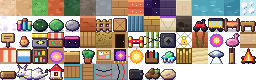
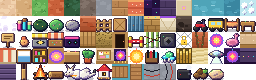
chakrageddon: publish Chakra-geddon 1.0.45 (3c3fefa)

Changed region(s): [[0.0, 0.8, 0.875, 1.0], [0.875, 0.6, 1.0, 0.8]]

diff --git a/static/chakrageddon/sw.js b/static/chakrageddon/sw.js
@@ -1,8 +1,8 @@
 // Generated by tools/build-sw.mjs - do not edit by hand.
 // Offline cache for the whole game. A new version installs beside the old one and takes over on the next launch.
-const VERSION = '174539335254';
+const VERSION = 'c311c6c2019e';
 const CACHE = 'chakrageddon-' + VERSION;
-const FILES = ["./","assets/export/atlas.json","assets/export/char_baba.png","assets/export/char_banyan.png","assets/export/char_baron.png","assets/export/char_boris.png","assets/export/char_captain.png","assets/export/char_chad.png","assets/export/char_chaimama.png","assets/export/char_chef.png","assets/export/char_council_beads.png","assets/export/char_council_elder.png","assets/export/char_council_eye.png","assets/export/char_dealer.png","assets/export/char_dj.png","assets/export/char_firespinner.png","assets/export/char_guard.png","assets/export/char_guru.png","assets/export/char_hana.png","assets/export/char_hippie.png","assets/export/char_influencer.png","assets/export/char_juggler.png","assets/export/char_kalyani.png","assets/export/char_lakshmi.png","assets/export/char_local.png","assets/export/char_mantequilla.png","assets/export/char_player.png","assets/export/char_player_crab.png","assets/export/char_player_glow.png","assets/export/char_player_kurta.png","assets/export/char_player_poncho.png","assets/export/char_player_sequins.png","assets/export/char_player_sombrero.png","assets/export/char_player_tiedye.png","assets/export/char_promoter.png","assets/export/char_raver.png","assets/export/char_sergeant.png","assets/export/char_shaman.png","assets/export/char_tourist.png","assets/export/char_vendor.png","assets/export/char_wook.png","assets/export/char_yogi.png","assets/export/icon.png","assets/export/mon_amphetadragon.png","assets/export/mon_bassilisk.png","assets/export/mon_blottertot.png","assets/export/mon_bongo_bishop.png","assets/export/mon_bribe_asaurus.png","assets/export/mon_charagolem.png","assets/export/mon_chillem.png","assets/export/mon_crabcake.png","assets/export/mon_dengoth.png","assets/export/mon_djembe_monk.png","assets/export/mon_duvetghast.png","assets/export/mon_fractoad.png","assets/export/mon_ganjapod.png","assets/export/mon_glowkid.png","assets/export/mon_grand_wook.png","assets/export/mon_gurnagama.png","assets/export/mon_hashlump.png","assets/export/mon_hoffmanite.png","assets/export/mon_jawling.png","assets/export/mon_ketacrab.png","assets/export/mon_lassiblob.png","assets/export/mon_lobsterlad.png","assets/export/mon_mandalord.png","assets/export/mon_mozzquito.png","assets/export/mon_neighbula.png","assets/export/mon_nitroxide.png","assets/export/mon_omeletron.png","assets/export/mon_omnihound.png","assets/export/mon_ravelord.png","assets/export/mon_selfiend.png","assets/export/mon_shadowcop.png","assets/export/mon_shroomba.png","assets/export/mon_sirenowl.png","assets/export/mon_snoozel.png","assets/export/mon_sunraga.png","assets/export/mon_tridog.png","assets/export/mon_vicchiomorph.png","assets/export/mon_wonkrab.png","assets/export/mon_wooklet.png","assets/export/portrait_baba.png","assets/export/portrait_banyan.png","assets/export/portrait_baron.png","assets/export/portrait_boris.png","assets/export/portrait_captain.png","assets/export/portrait_chad.png","assets/export/portrait_chaimama.png","assets/export/portrait_chef.png","assets/export/portrait_council_beads.png","assets/export/portrait_council_elder.png","assets/export/portrait_council_eye.png","assets/export/portrait_dealer.png","assets/export/portrait_dj.png","assets/export/portrait_firespinner.png","assets/export/portrait_guard.png","assets/export/portrait_guru.png","assets/export/portrait_hana.png","assets/export/portrait_hippie.png","assets/export/portrait_influencer.png","assets/export/portrait_juggler.png","assets/export/portrait_kalyani.png","assets/export/portrait_lakshmi.png","assets/export/portrait_local.png","assets/export/portrait_mantequilla.png","assets/export/portrait_player.png","assets/export/portrait_player_crab.png","assets/export/portrait_player_glow.png","assets/export/portrait_player_kurta.png","assets/export/portrait_player_poncho.png","assets/export/portrait_player_sequins.png","assets/export/portrait_player_sombrero.png","assets/export/portrait_player_tiedye.png","assets/export/portrait_promoter.png","assets/export/portrait_raver.png","assets/export/portrait_sergeant.png","assets/export/portrait_shaman.png","assets/export/portrait_tourist.png","assets/export/portrait_vendor.png","assets/export/portrait_wook.png","assets/export/portrait_yogi.png","assets/export/prop_bamboo.png","assets/export/prop_chai.png","assets/export/prop_flag.png","assets/export/prop_lamp.png","assets/export/prop_mushroom.png","assets/export/prop_palm.png","assets/export/prop_shack.png","assets/export/prop_speaker.png","assets/export/prop_surfboard.png","assets/export/prop_totem.png","assets/export/prop_tree.png","assets/export/tiles.png","assets/icon-192.png","assets/icon-512.png","data/dex.json","data/dialogues.json","data/items.json","data/manifest.json","data/moves.json","data/rules.json","data/tiles.json","data/trainers.json","data/type_chart.json","data/zones/backstage.json","data/zones/bamboo_thicket.json","data/zones/banyan_shack.json","data/zones/dirt_road.json","data/zones/dj_booth.json","data/zones/driftwood_beach.json","data/zones/dry_ice_corridor.json","data/zones/flea_market.json","data/zones/forest_stage.json","data/zones/green_room.json","data/zones/guesthouse.json","data/zones/mainstage_temple.json","data/zones/omelette_stall.json","data/zones/poi_pit.json","data/zones/sadhu_cave.json","data/zones/sandy_trail.json","data/zones/scooter_ditch.json","data/zones/sea_shallows.json","data/zones/sunset_cliff.json","data/zones/sunset_villa.json","data/zones/sweetwater_lake.json","data/zones/tantric_yurt.json","data/zones/vicchio_circle.json","index.html","manifest.webmanifest","src/core/AIController.js","src/core/BattleEngine.js","src/core/GameEngine.js","src/core/OverworldEngine.js","src/core/ScriptEngine.js","src/core/data.js","src/core/goals.js","src/core/hooks.js","src/core/intox.js","src/core/items.js","src/core/mons.js","src/core/prng.js","src/core/quests.js","src/view/CanvasRenderer.js","src/view/Game.js","src/view/InputAdapter.js","src/view/SynthAudio.js","src/view/WebGLPostProcess.js","src/view/anim.js","src/view/assets.js","src/view/battleFx.js","src/view/battleView.js","src/view/bossScenes.js","src/view/creditsView.js","src/view/dialogueView.js","src/view/font.js","src/view/glossary.js","src/view/introView.js","src/view/main.js","src/view/menuView.js","src/view/moveFx.js","src/view/noticeView.js","src/view/overworldView.js","src/view/quickView.js","src/view/sceneView.js","src/view/settingsView.js","src/view/shopView.js","src/view/ui.js","src/view/vicchioScenes.js","styles.css"];
+const FILES = ["./","assets/export/atlas.json","assets/export/char_baba.png","assets/export/char_banyan.png","assets/export/char_baron.png","assets/export/char_boris.png","assets/export/char_captain.png","assets/export/char_chad.png","assets/export/char_chaimama.png","assets/export/char_chef.png","assets/export/char_council_beads.png","assets/export/char_council_elder.png","assets/export/char_council_eye.png","assets/export/char_dealer.png","assets/export/char_dj.png","assets/export/char_firespinner.png","assets/export/char_guard.png","assets/export/char_guru.png","assets/export/char_hana.png","assets/export/char_hippie.png","assets/export/char_influencer.png","assets/export/char_juggler.png","assets/export/char_kalyani.png","assets/export/char_lakshmi.png","assets/export/char_local.png","assets/export/char_mantequilla.png","assets/export/char_player.png","assets/export/char_player_crab.png","assets/export/char_player_glow.png","assets/export/char_player_kurta.png","assets/export/char_player_poncho.png","assets/export/char_player_sequins.png","assets/export/char_player_sombrero.png","assets/export/char_player_tiedye.png","assets/export/char_promoter.png","assets/export/char_raver.png","assets/export/char_sergeant.png","assets/export/char_shaman.png","assets/export/char_tourist.png","assets/export/char_vendor.png","assets/export/char_wook.png","assets/export/char_yogi.png","assets/export/dancers.png","assets/export/icon.png","assets/export/mon_amphetadragon.png","assets/export/mon_bassilisk.png","assets/export/mon_blottertot.png","assets/export/mon_bongo_bishop.png","assets/export/mon_bribe_asaurus.png","assets/export/mon_charagolem.png","assets/export/mon_chillem.png","assets/export/mon_crabcake.png","assets/export/mon_dengoth.png","assets/export/mon_djembe_monk.png","assets/export/mon_duvetghast.png","assets/export/mon_fractoad.png","assets/export/mon_ganjapod.png","assets/export/mon_glowkid.png","assets/export/mon_grand_wook.png","assets/export/mon_gurnagama.png","assets/export/mon_hashlump.png","assets/export/mon_hoffmanite.png","assets/export/mon_jawling.png","assets/export/mon_ketacrab.png","assets/export/mon_lassiblob.png","assets/export/mon_lobsterlad.png","assets/export/mon_mandalord.png","assets/export/mon_mozzquito.png","assets/export/mon_neighbula.png","assets/export/mon_nitroxide.png","assets/export/mon_omeletron.png","assets/export/mon_omnihound.png","assets/export/mon_ravelord.png","assets/export/mon_selfiend.png","assets/export/mon_shadowcop.png","assets/export/mon_shroomba.png","assets/export/mon_sirenowl.png","assets/export/mon_snoozel.png","assets/export/mon_sunraga.png","assets/export/mon_tridog.png","assets/export/mon_vicchiomorph.png","assets/export/mon_wonkrab.png","assets/export/mon_wooklet.png","assets/export/portrait_baba.png","assets/export/portrait_banyan.png","assets/export/portrait_baron.png","assets/export/portrait_boris.png","assets/export/portrait_captain.png","assets/export/portrait_chad.png","assets/export/portrait_chaimama.png","assets/export/portrait_chef.png","assets/export/portrait_council_beads.png","assets/export/portrait_council_elder.png","assets/export/portrait_council_eye.png","assets/export/portrait_dealer.png","assets/export/portrait_dj.png","assets/export/portrait_firespinner.png","assets/export/portrait_guard.png","assets/export/portrait_guru.png","assets/export/portrait_hana.png","assets/export/portrait_hippie.png","assets/export/portrait_influencer.png","assets/export/portrait_juggler.png","assets/export/portrait_kalyani.png","assets/export/portrait_lakshmi.png","assets/export/portrait_local.png","assets/export/portrait_mantequilla.png","assets/export/portrait_player.png","assets/export/portrait_player_crab.png","assets/export/portrait_player_glow.png","assets/export/portrait_player_kurta.png","assets/export/portrait_player_poncho.png","assets/export/portrait_player_sequins.png","assets/export/portrait_player_sombrero.png","assets/export/portrait_player_tiedye.png","assets/export/portrait_promoter.png","assets/export/portrait_raver.png","assets/export/portrait_sergeant.png","assets/export/portrait_shaman.png","assets/export/portrait_tourist.png","assets/export/portrait_vendor.png","assets/export/portrait_wook.png","assets/export/portrait_yogi.png","assets/export/prop_bamboo.png","assets/export/prop_chai.png","assets/export/prop_flag.png","assets/export/prop_lamp.png","assets/export/prop_mushroom.png","assets/export/prop_palm.png","assets/export/prop_shack.png","assets/export/prop_speaker.png","assets/export/prop_strobe.png","assets/export/prop_surfboard.png","assets/export/prop_totem.png","assets/export/prop_tree.png","assets/export/tiles.png","assets/icon-192.png","assets/icon-512.png","data/dex.json","data/dialogues.json","data/items.json","data/manifest.json","data/moves.json","data/rules.json","data/tiles.json","data/trainers.json","data/type_chart.json","data/zones/backstage.json","data/zones/bamboo_thicket.json","data/zones/banyan_shack.json","data/zones/dirt_road.json","data/zones/dj_booth.json","data/zones/driftwood_beach.json","data/zones/dry_ice_corridor.json","data/zones/flea_market.json","data/zones/forest_stage.json","data/zones/green_room.json","data/zones/guesthouse.json","data/zones/mainstage_temple.json","data/zones/omelette_stall.json","data/zones/poi_pit.json","data/zones/sadhu_cave.json","data/zones/sandy_trail.json","data/zones/scooter_ditch.json","data/zones/sea_shallows.json","data/zones/sunset_cliff.json","data/zones/sunset_villa.json","data/zones/sweetwater_lake.json","data/zones/tantric_yurt.json","data/zones/vicchio_circle.json","index.html","manifest.webmanifest","src/core/AIController.js","src/core/BattleEngine.js","src/core/GameEngine.js","src/core/OverworldEngine.js","src/core/ScriptEngine.js","src/core/data.js","src/core/goals.js","src/core/hooks.js","src/core/intox.js","src/core/items.js","src/core/mons.js","src/core/prng.js","src/core/quests.js","src/view/CanvasRenderer.js","src/view/Game.js","src/view/InputAdapter.js","src/view/SynthAudio.js","src/view/WebGLPostProcess.js","src/view/anim.js","src/view/assets.js","src/view/battleFx.js","src/view/battleView.js","src/view/bossScenes.js","src/view/creditsView.js","src/view/dialogueView.js","src/view/font.js","src/view/glossary.js","src/view/introView.js","src/view/main.js","src/view/menuView.js","src/view/moveFx.js","src/view/noticeView.js","src/view/overworldView.js","src/view/quickView.js","src/view/sceneView.js","src/view/settingsView.js","src/view/shopView.js","src/view/ui.js","src/view/vicchioScenes.js","styles.css"];
 
 self.addEventListener('install', (e) => {
   e.waitUntil(caches.open(CACHE).then((c) => c.addAll(FILES)).then(() => self.skipWaiting()));

diff --git a/static/chakrageddon/src/view/overworldView.js b/static/chakrageddon/src/view/overworldView.js
@@ -166,12 +166,16 @@ export const overworldView = {
     if (name === 'lamp' && !still) { g.globalAlpha = 0.18 + 0.08 * Math.sin(t * 9 + tx * 3); g.fillStyle = '#FFE066'; g.beginPath(); g.arc(bx, by - pr.h + 5, 8, 0, 7); g.fill(); g.globalAlpha = 1; }
   },
   /** a dancer bouncing to the zone's BPM on a dancefloor tile */
+  /** a dancer on a dancefloor tile: one of the festival's people (assets dancers.png), changing pose on the beat
+   *  (both hands up, left up, both up, right up) with a hop; each one off-beat from its neighbours */
   dancer(game, g, dx, dy, x, y) {
-    const bpm = game.data.zones[game.engine.state.zoneId]?.baseBpm || 140, ph = ((this.t * bpm) / 60 + (x + y) * 0.25) % 1, up = ph < 0.5 ? 1 : 0;
-    const col = ['#FF4FA8', '#5FF4FF', '#4FE88A', '#FFE066', '#C86BFF'][(x * 3 + y) % 5], skin = ['#F2C29A', '#C98A5A', '#8D5A3A'][(x + y * 2) % 3];
-    g.fillStyle = 'rgba(11,3,20,0.3)'; g.fillRect(dx + 5, dy + 13, 6, 2);
-    g.fillStyle = col; g.fillRect(dx + 6, dy + 6 - up, 4, 6); g.fillRect(dx + (ph < 0.25 || ph > 0.75 ? 4 : 10), dy + 3 - up, 2, 4);
-    g.fillStyle = skin; g.fillRect(dx + 6, dy + 2 - up, 4, 4);
+    const img = game.images.dancers, meta = game.atlas.dancers || { looks: 1, poses: 1 };
+    const still = game.settings.reducedMotion, bpm = game.data.zones[game.engine.state.zoneId]?.baseBpm || 140;
+    const beats = (this.t * bpm) / 60 + ((x * 3 + y * 5) % 4) / 4;
+    const look = (x * 7 + y * 13) % meta.looks, pose = still ? 0 : [0, 1, 0, 2][Math.floor(beats) % 4] % meta.poses;
+    const hop = !still && beats % 1 < 0.3 ? 1 : 0;
+    g.fillStyle = 'rgba(11,3,20,0.3)'; g.fillRect(dx + 4, dy + 13, 8, 2);
+    if (img) g.drawImage(img, pose * 16, look * 24, 16, 24, dx, dy - 10 - hop, 16, 24);
   },
   /** small loops for people with something in their hands */
   trick(g, sprite, x, y, t) {
@@ -237,7 +241,6 @@ export const overworldView = {
         const top = WALL_TOPS[sp];
         if (top && isWall(classOf(x, y + 1), sp)) wallTop(g, top, dx, dy, [classOf(x, y - 1), classOf(x + 1, y), classOf(x, y + 1), classOf(x - 1, y)].map((c) => !isWall(c, sp)));
         else if (sp !== zone.ground) this.tile(game, g, sp, dx, dy);
-        if (sp === 'dancefloor' && (x * 7 + y * 3) % 5 === 0 && !game.settings.reducedMotion) this.dancer(game, g, dx, dy, x, y);
         if (sp === 'bonfire' && !game.settings.reducedMotion) for (let i = 0; i < 3; i++) {   // sparks rising off the fire
           const k = (this.t * 0.9 + i / 3 + x * 0.17) % 1;
           g.globalAlpha = 1 - k; g.fillStyle = i % 2 ? '#FFD23F' : '#FF6A2A';
@@ -270,9 +273,13 @@ export const overworldView = {
     // row-sorted pass: props, characters, pickups (lower rows overlap upper ones)
     const ents = [];
     const px0 = Math.max(0, x0 - 2), px1 = Math.min(zone.rows[0].length - 1, x1 + 2), py1 = Math.min(zone.rows.length - 1, y1 + 3);
+    const taken = new Set([`${s.player.x},${s.player.y}`, ...(this.anim ? [`${this.anim.from[0]},${this.anim.from[1]}`] : [])]);
+    for (const n of zone.npcs || []) if (npcVisible(ctx, n)) { const p = npcPos(ctx, n, zone); taken.add(`${p.x},${p.y}`); }
     for (let y = y0; y <= py1; y++) for (let x = px0; x <= px1; x++) {
       const def = legend[charAt(ctx, x, y, zone)];
       if (def?.prop) ents.push({ y: y - 0.01, prop: def.prop, x });
+      // dancers: on every crowd tile, every few dancefloor tiles; none where you or someone else is standing
+      if (def && (def.crowd || (resolve(def.sprite) === 'dancefloor' && (x * 7 + y * 3) % 5 === 0)) && !taken.has(`${x},${y}`)) ents.push({ y: y - 0.02, dancer: true, x, ty: y });
     }
     for (const n of zone.npcs || []) if (npcVisible(ctx, n)) {
       const p = npcPos(ctx, n, zone), a = this.npcAnim?.[n.id];
@@ -285,6 +292,7 @@ export const overworldView = {
     ents.sort((a, b) => a.y - b.y);
     const shadow = (x, y) => { g.fillStyle = 'rgba(20,10,40,0.27)'; g.fillRect(x + 3, y + 21, 10, 3); g.fillRect(x + 4, y + 20, 8, 5); };
     for (const e of ents) {
+      if (e.dancer) { this.dancer(game, g, e.x * TS - cx, e.ty * TS - cy, e.x, e.ty); continue; }
       if (e.prop) {
         const pr = game.atlas.props[e.prop], img = game.images[`prop:${e.prop}`], ty = Math.round(e.y + 0.01);
         if (pr && img) {
@@ -328,15 +336,33 @@ export const overworldView = {
           // standing people shift their weight now and then; a few have a loop of their own
           const still = game.settings.reducedMotion, h = hashOf(n.id), fidget = !still && !e.walking && ((this.t + (h % 97) / 10) % 4.5) < 0.25;
           const nod = !still && n.sprite === 'dj' ? Math.floor(this.t * (game.data.zones[s.zoneId].baseBpm || 140) / 60) % 2 : 0;
-          shadow(dx, dy - 10); this.char(game, g, n.sprite, this.npcDir[n.id] || n.dir || 'DOWN', e.walking ? Math.floor(this.t * 8) % 2 : fidget ? 1 : 0, dx, dy - 10 + nod);
+          const beats = this.t * (game.data.zones[s.zoneId].baseBpm || 140) / 60, dancing = n.dance && !still && !e.walking && !(this.alert && this.alert.x === e.nx && this.alert.y === e.ny);
+          const hop = dancing && beats % 1 < 0.3 ? 1 : 0;
+          shadow(dx, dy - 10);
+          this.char(game, g, n.sprite, dancing ? 'DOWN' : this.npcDir[n.id] || n.dir || 'DOWN', dancing ? Math.floor(beats / 2) % 2 : e.walking ? Math.floor(this.t * 8) % 2 : fidget ? 1 : 0, dx, dy - 10 + nod - hop);
           if (!still) this.trick(g, n.sprite, dx, dy - 10, this.t + (h % 13));
         }
         // a quest to pick up (!) or a step to hand in (?)
         const mark = questMarker(game.data, s, zone.zoneId, n.id);
-        if (mark) drawMarker(g, mark, dx + 5, dy - 23 - (mark === '?' ? 1 : 0) + Math.round(Math.abs(Math.sin(this.t * 3.5)) * -2));
+        if (mark) drawMarker(g, mark, dx + 5, dy - 23 - (mark === '?' ? 1 : 0) + (game.settings.reducedMotion ? 0 : Math.round(Math.abs(Math.sin(this.t * 3.5)) * -2)));
       } else this.tile(game, g, 'stash', e.pickup.x * TS - cx, e.pickup.y * TS - cy);
     }
     if (this.alert) drawText(g, '!', this.alert.x * TS - cx + 6, this.alert.y * TS - cy - 20, { color: C.red, shadow: C.white });
+
+    // strobes on the stage: on each beat one of them throws a cone of white light onto the floor, the corners taking
+    // turns; with reduced motion or grounded mode they just glow, steady and dim
+    const strobes = ((this.strobes ||= {})[s.zoneId] ||= zone.rows.flatMap((r, y) => [...r].flatMap((ch, x) => (legend[ch]?.prop === 'strobe' ? [[x, y]] : []))));
+    if (strobes.length) {
+      const calm = game.settings.reducedMotion || game.settings.grounded, beats = this.t * (zone.baseBpm || 140) / 60, n = calm ? 0 : Math.floor(beats), on = beats % 1 < 0.22;
+      strobes.forEach(([x, y], i) => {
+        const hx = x * TS + 8 - cx, hy = y * TS - 10 - cy, lit = calm || (on && n % strobes.length === i);
+        if (!lit) return;
+        const tx = (x < zone.rows[0].length / 2 ? 1 : -1) * (60 + ((n * 37 + i * 53) % 90)), ty = 90 + ((n * 23) % 40);
+        g.globalAlpha = calm ? 0.07 : 0.28; g.fillStyle = calm ? '#C8A8FF' : '#F4F8FF';
+        g.beginPath(); g.moveTo(hx - 3, hy); g.lineTo(hx + 3, hy); g.lineTo(hx + tx + 26, hy + ty); g.lineTo(hx + tx - 26, hy + ty); g.fill();
+        g.globalAlpha = 1;
+      });
+    }
 
     // light: night tint, dark zones lit only around the player
     const lit = zone.dark && !game.canFlash();

diff --git a/static/chakrageddon/src/core/OverworldEngine.js b/static/chakrageddon/src/core/OverworldEngine.js
@@ -115,6 +115,13 @@ export function nightLevel(clock) {
  *  redrawn, off the edge, on a wall or on someone), move them to the nearest open tile. */
 export function settle(ctx) {
   const s = ctx.state, zone = zoneOf(ctx), p = s.player;
+  // a trainer who walked up to you stays on the line they watch; a spot off that line comes from an older map
+  for (const [zid, pos] of Object.entries(s.npcPos || {})) for (const [id, [x, y]] of Object.entries(pos)) {
+    const n = (ctx.data.zones[zid]?.npcs || []).find((m) => m.id === id);
+    if (!n || n.wander) continue;
+    const [dx, dy] = DIRS[n.dir || 'DOWN'], d = dx ? (x - n.x) * dx : (y - n.y) * dy;
+    if (!(d >= 0 && d <= (n.sight ?? 4) && x === n.x + dx * d && y === n.y + dy * d)) delete pos[id];
+  }
   const ok = (x, y) => walkable(ctx, x, y, zone) && !entityAt(ctx, x, y, zone) && !(zone.warps || []).some((w) => w.x === x && w.y === y);
   if (ok(p.x, p.y)) return false;
   const H = zone.rows.length, W = zone.rows[0].length;
